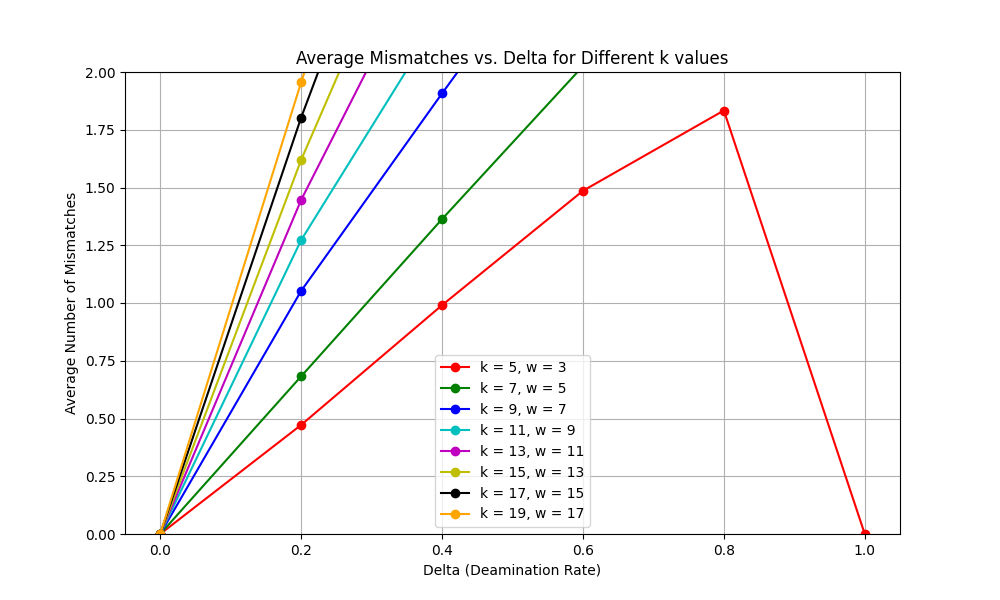
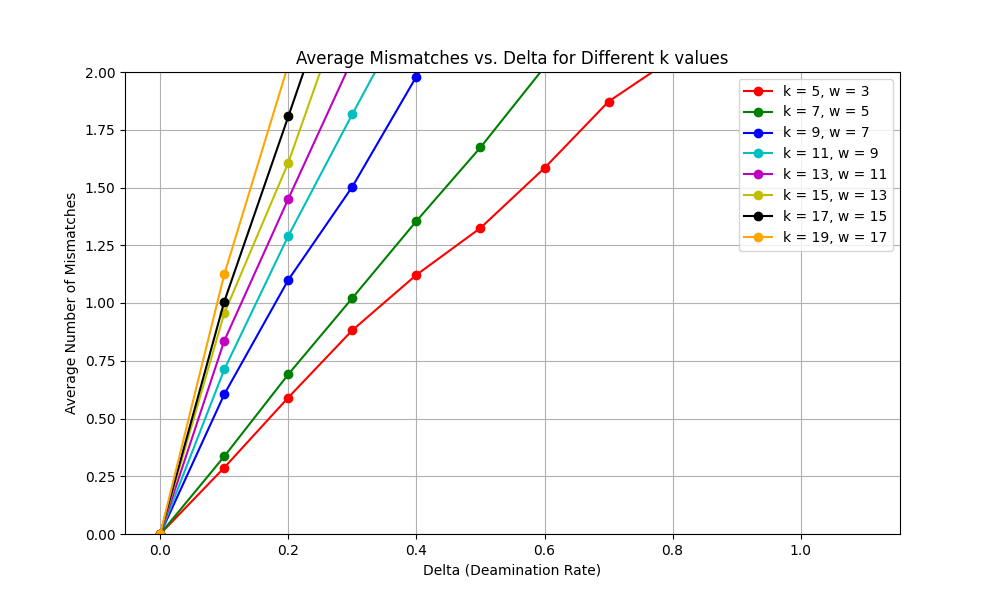
Update

diff --git a/simulations/avg_mismatch/avg.py b/simulations/avg_mismatch/avg.py
@@ -85,7 +85,7 @@ def compute_average_mismatches_for_k(k, w):
 
 # Main Script
 reference = generate_random_dna()
-delta_values = np.arange(0, 1.2, 0.2)
+delta_values = np.arange(0, 1.2, 0.1)
 k_values = list(range(5, 21, 2))
 
 plt.figure(figsize=(10, 6))
@@ -93,6 +93,7 @@ colors = ['r', 'g', 'b', 'c', 'm', 'y', 'k', 'orange']
 labels = []
 
 for idx, k in enumerate(k_values):
+    print("k = " + str(k))
     w = k - 2
     average_mismatches_list_delta = compute_average_mismatches_for_k(k, w)
     label = f'k = {k}, w = {w}'
